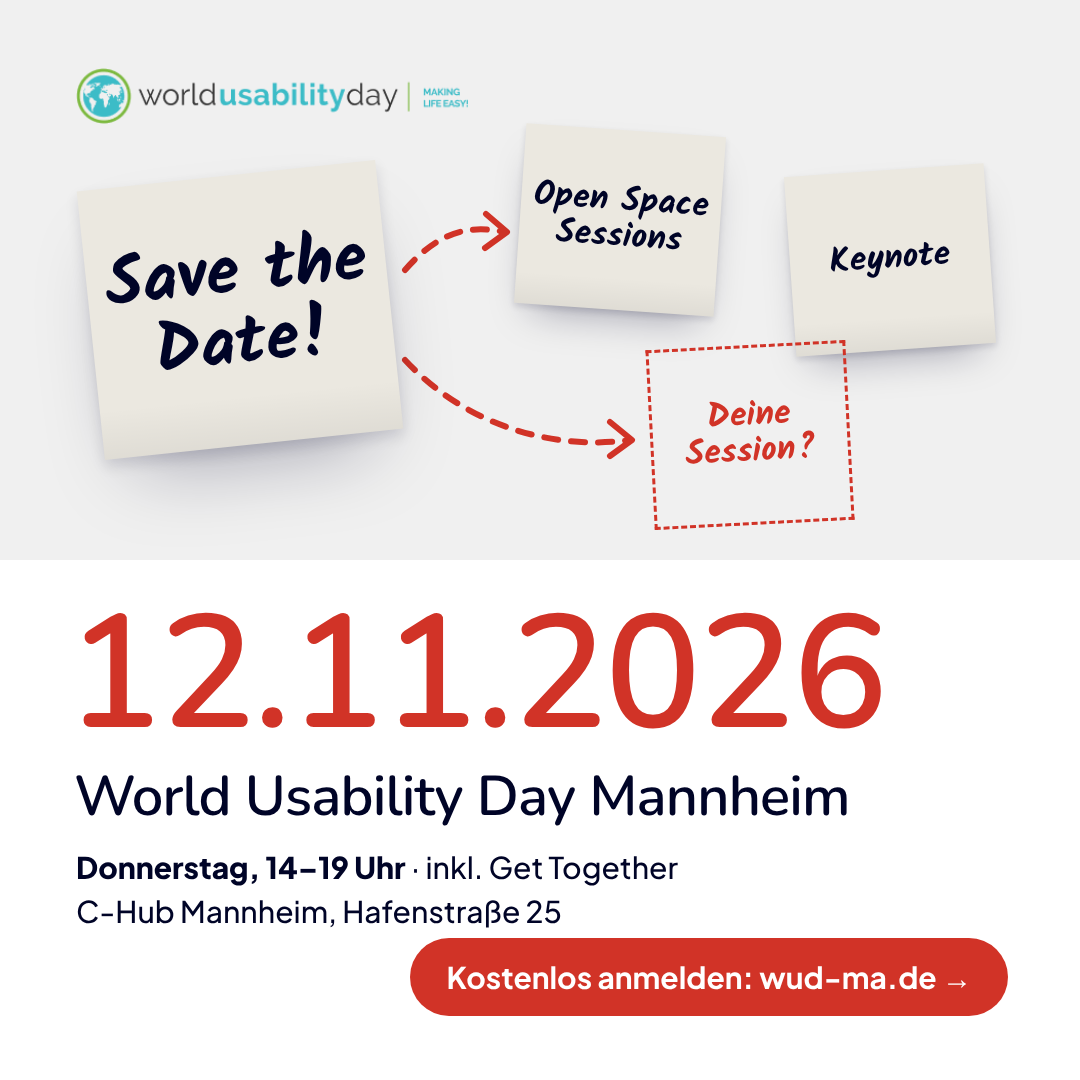
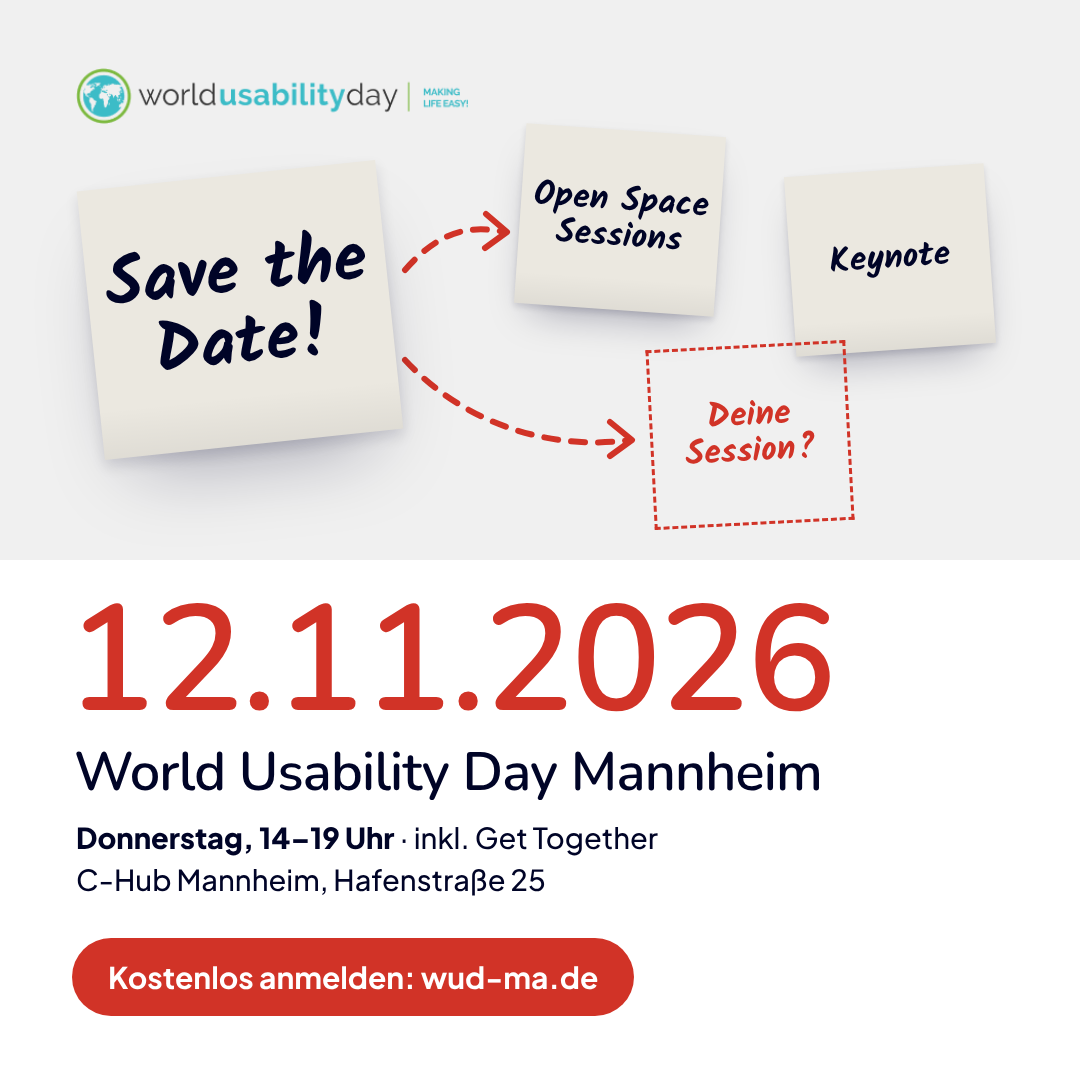
Website-Illustrationen eingeplant, Buttons ohne Pfeil & linksbündig
- "Was sind Open Spaces?": Ablauf-Abschnitt mit den 4 Illustrationen von wud-ma.de
  (Session Pitches, Gemeinsame Planung, Du entscheidest!, Aktive Teilnahme)
- Pfeil aus allen Buttons entfernt, Buttons immer links ausgerichtet

Claude-Session: https://claude.ai/code/session_01FdBpF3p1XTs9Kowkd1XXbf

Changed region(s): [[0.0611, 0.55, 0.9472, 0.9472]]

diff --git a/assets/src/save-the-date-quadrat.html b/assets/src/save-the-date-quadrat.html
@@ -15,11 +15,11 @@
   .t3 { width: 200px; height: 180px; left: 650px; top: 345px; font-size: 34px; transform: rotate(-3deg); }
   .arrow { position: absolute; left: 0; top: 0; width: 1080px; height: 560px; }
 
-  .date { position: absolute; left: 66px; top: 590px; font-size: 160px; color: var(--red); font-weight: 600; }
-  .title { position: absolute; left: 74px; top: 768px; font-size: 56px; color: var(--navy); font-weight: 600; }
-  .meta { position: absolute; left: 76px; top: 846px; font-size: 30px; line-height: 1.45; font-weight: 500; }
+  .date { position: absolute; left: 66px; top: 582px; font-size: 150px; color: var(--red); font-weight: 600; }
+  .title { position: absolute; left: 74px; top: 744px; font-size: 54px; color: var(--navy); font-weight: 600; }
+  .meta { position: absolute; left: 76px; top: 816px; font-size: 29px; line-height: 1.45; font-weight: 500; }
   .meta b { font-weight: 800; }
-  .cta { position: absolute; right: 72px; bottom: 64px; font-size: 30px; padding: 20px 36px; }
+  .cta { position: absolute; left: 72px; bottom: 64px; font-size: 30px; padding: 20px 36px; }
 </style>
 </head>
 <body>
@@ -41,6 +41,6 @@
   <div class="head date">12.11.2026</div>
   <div class="head title">World Usability Day Mannheim</div>
   <div class="meta"><b>Donnerstag, 14–19 Uhr</b> · inkl. Get Together<br>C-Hub Mannheim, Hafenstraße 25</div>
-  <div class="pill cta">Kostenlos anmelden: wud-ma.de →</div>
+  <div class="pill cta">Kostenlos anmelden: wud-ma.de</div>
 </body>
 </html>

diff --git a/assets/src/session-card-post.html b/assets/src/session-card-post.html
@@ -61,6 +61,6 @@
 
   <div class="head title">Bring deine Frage mit – wir machen<br>eine Session daraus.</div>
   <div class="meta"><b>Do, 12.11.2026 · 14–19 Uhr</b> · C-Hub Mannheim · kostenlos</div>
-  <div class="pill cta">Jetzt anmelden: wud-ma.de →</div>
+  <div class="pill cta">Jetzt anmelden: wud-ma.de</div>
 </body>
 </html>

diff --git a/assets/src/save-the-date-linkedin.html b/assets/src/save-the-date-linkedin.html
@@ -45,6 +45,6 @@
   <div class="head title">World Usability Day Mannheim</div>
   <div class="meta"><b>Donnerstag, 14–19 Uhr</b> · inkl. Get Together<br>C-Hub Mannheim, Hafenstraße 25</div>
 
-  <div class="pill cta">Kostenlos anmelden: wud-ma.de →</div>
+  <div class="pill cta">Kostenlos anmelden: wud-ma.de</div>
 </body>
 </html>

diff --git a/website/was-sind-open-spaces.md b/website/was-sind-open-spaces.md
@@ -31,17 +31,15 @@ So landen genau die Themen auf dem Programm, die die UX-Community gerade wirklic
 
 ### In vier Schritten zur eigenen Agenda
 
-**1. Session Card ausfüllen**
-Ab 15:00 Uhr startet das Session Planning. Du schreibst dein Thema auf eine Session Card und kreuzt an, welche Art von Session du anbieten möchtest.
+*Layout-Vorschlag: 4 Karten im 2×2-Raster (wie auf der Startseite), jeweils Illustration oben, darunter Überschrift und Text. Die Illustrationen liegen bereits in der WordPress-Mediathek.*
 
-**2. Kurz pitchen**
-Du stellst deine Idee in 1–2 Minuten vor. Drei Sätze reichen: Worum geht’s? Was nehmen die anderen mit? Für wen ist es spannend?
+| | |
+|---|---|
+| <img src="https://wud-ma.de/wp-content/uploads/2026/10/Illustration-01.png" width="360" alt="Post-its mit Session-Themen"><br>**1. Session Pitches**<br>Ab 15:00 Uhr startet das Session Planning. Du schreibst dein Thema auf eine Session Card, kreuzt an, ob du eine Diskussion, eine Co-Creation oder einen Vortrag planst – und stellst deine Idee in 1–2 Minuten vor. | <img src="https://wud-ma.de/wp-content/uploads/2026/10/Illustration-02.png" width="360" alt="Post-its mit Raum- und Zeitangaben"><br>**2. Gemeinsame Planung**<br>Alle Karten kommen auf das Session Board. Gemeinsam verteilen wir sie auf Räume und Zeiten – so entsteht in wenigen Minuten das Programm des Tages. |
+| <img src="https://wud-ma.de/wp-content/uploads/2026/10/Illustration-03.png" width="360" alt="Nachdenkliches Emoji mit Pfeilen zu mehreren Sessions"><br>**3. Du entscheidest!**<br>In zwei Session-Runden suchst du dir aus, wo du mitmachst. Und wenn dich ein anderes Thema mehr reizt, wechselst du einfach – das ist ausdrücklich erlaubt. | <img src="https://wud-ma.de/wp-content/uploads/2026/10/Illustration-04.png" width="360" alt="Mehrere Personen rund um ein Session-Thema"><br>**4. Aktive Teilnahme**<br>Im Open Space gibt es keine Zuschauer:innen, nur Teilnehmende. Diskutiere mit, teile deine Erfahrungen und lerne von anderen. |
 
-**3. Ab aufs Session Board**
-Alle Karten kommen auf das Session Board und werden gemeinsam auf Räume und Zeiten verteilt.
-
-**4. Du entscheidest**
-In zwei Session-Runden suchst du dir aus, wo du mitmachst – und kannst jederzeit wechseln.
+**Dateien in der Mediathek:**
+`Illustration-01.png` (Session Pitches) · `Illustration-02.png` (Gemeinsame Planung) · `Illustration-03.png` (Du entscheidest!) · `Illustration-04.png` (Aktive Teilnahme)
 
 ---
 
